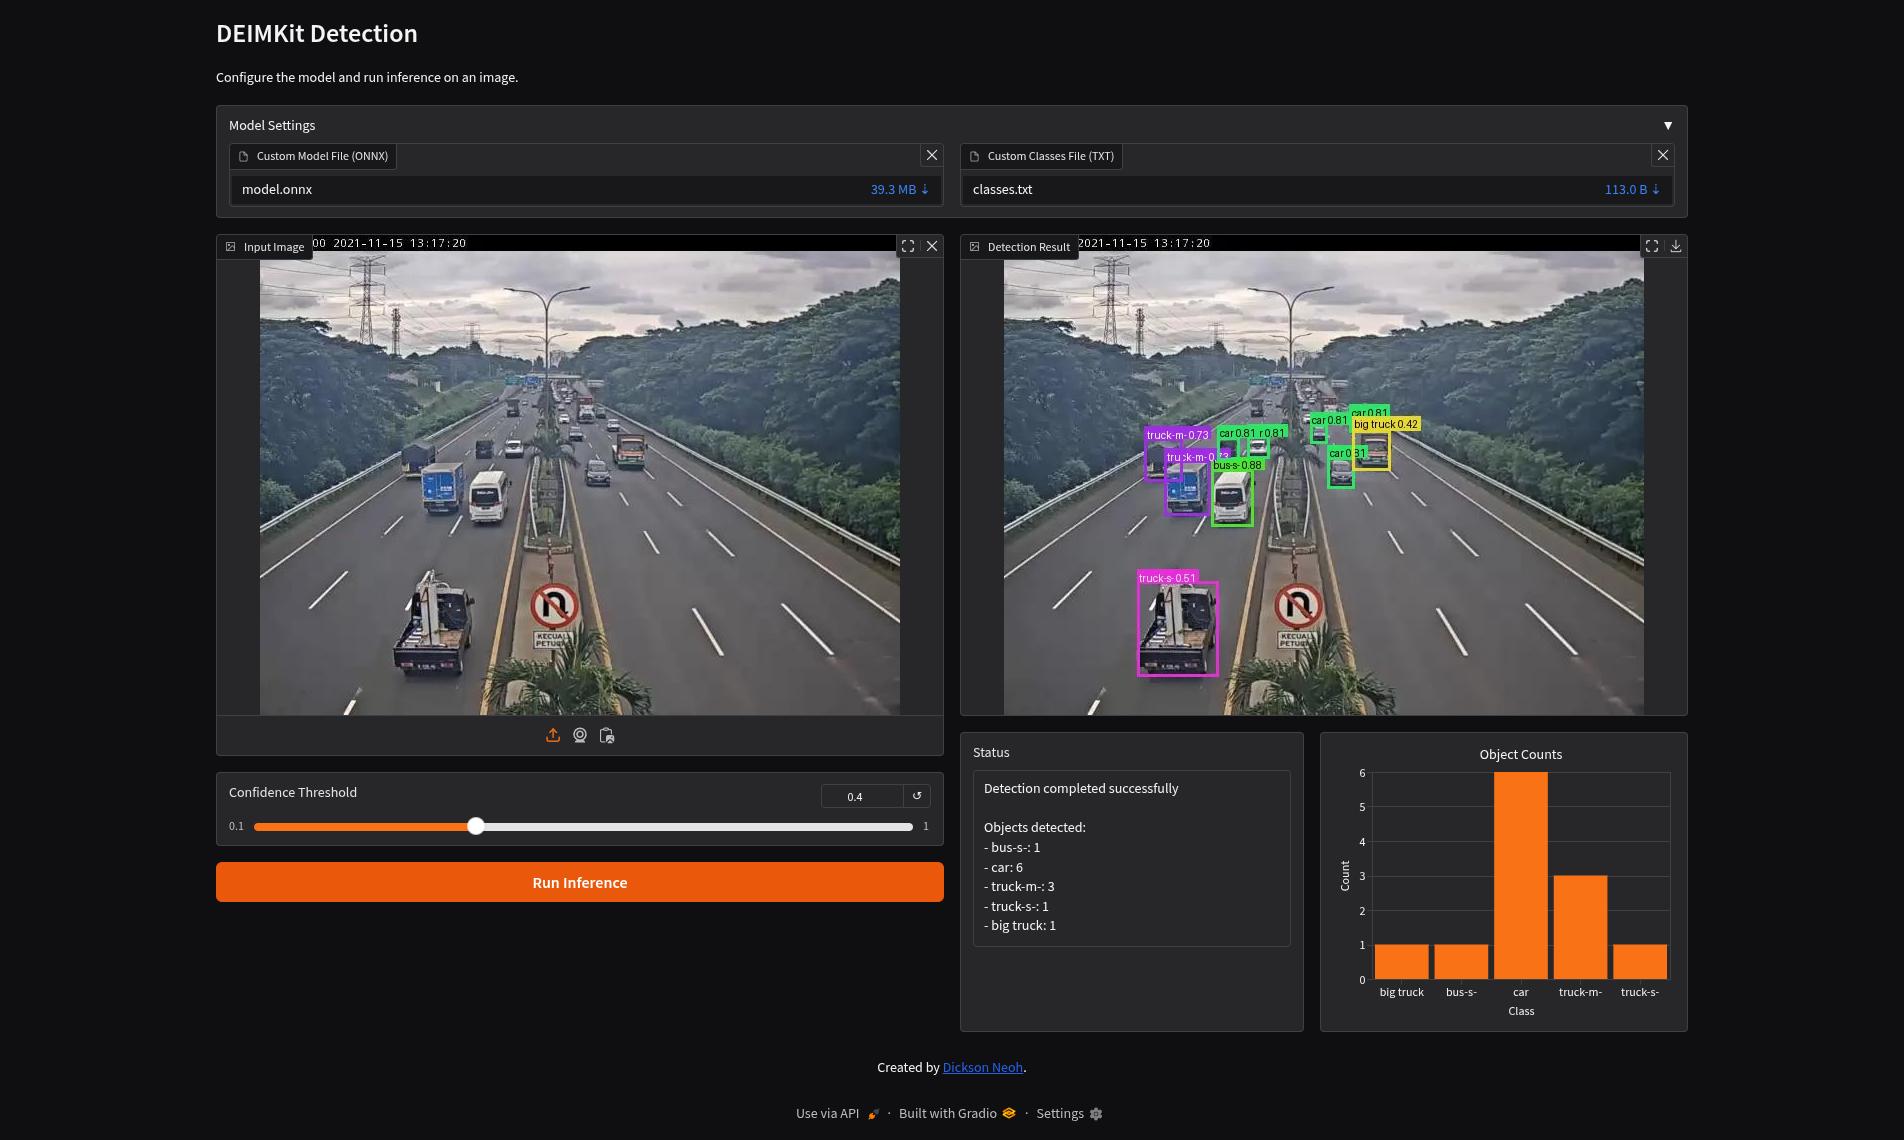
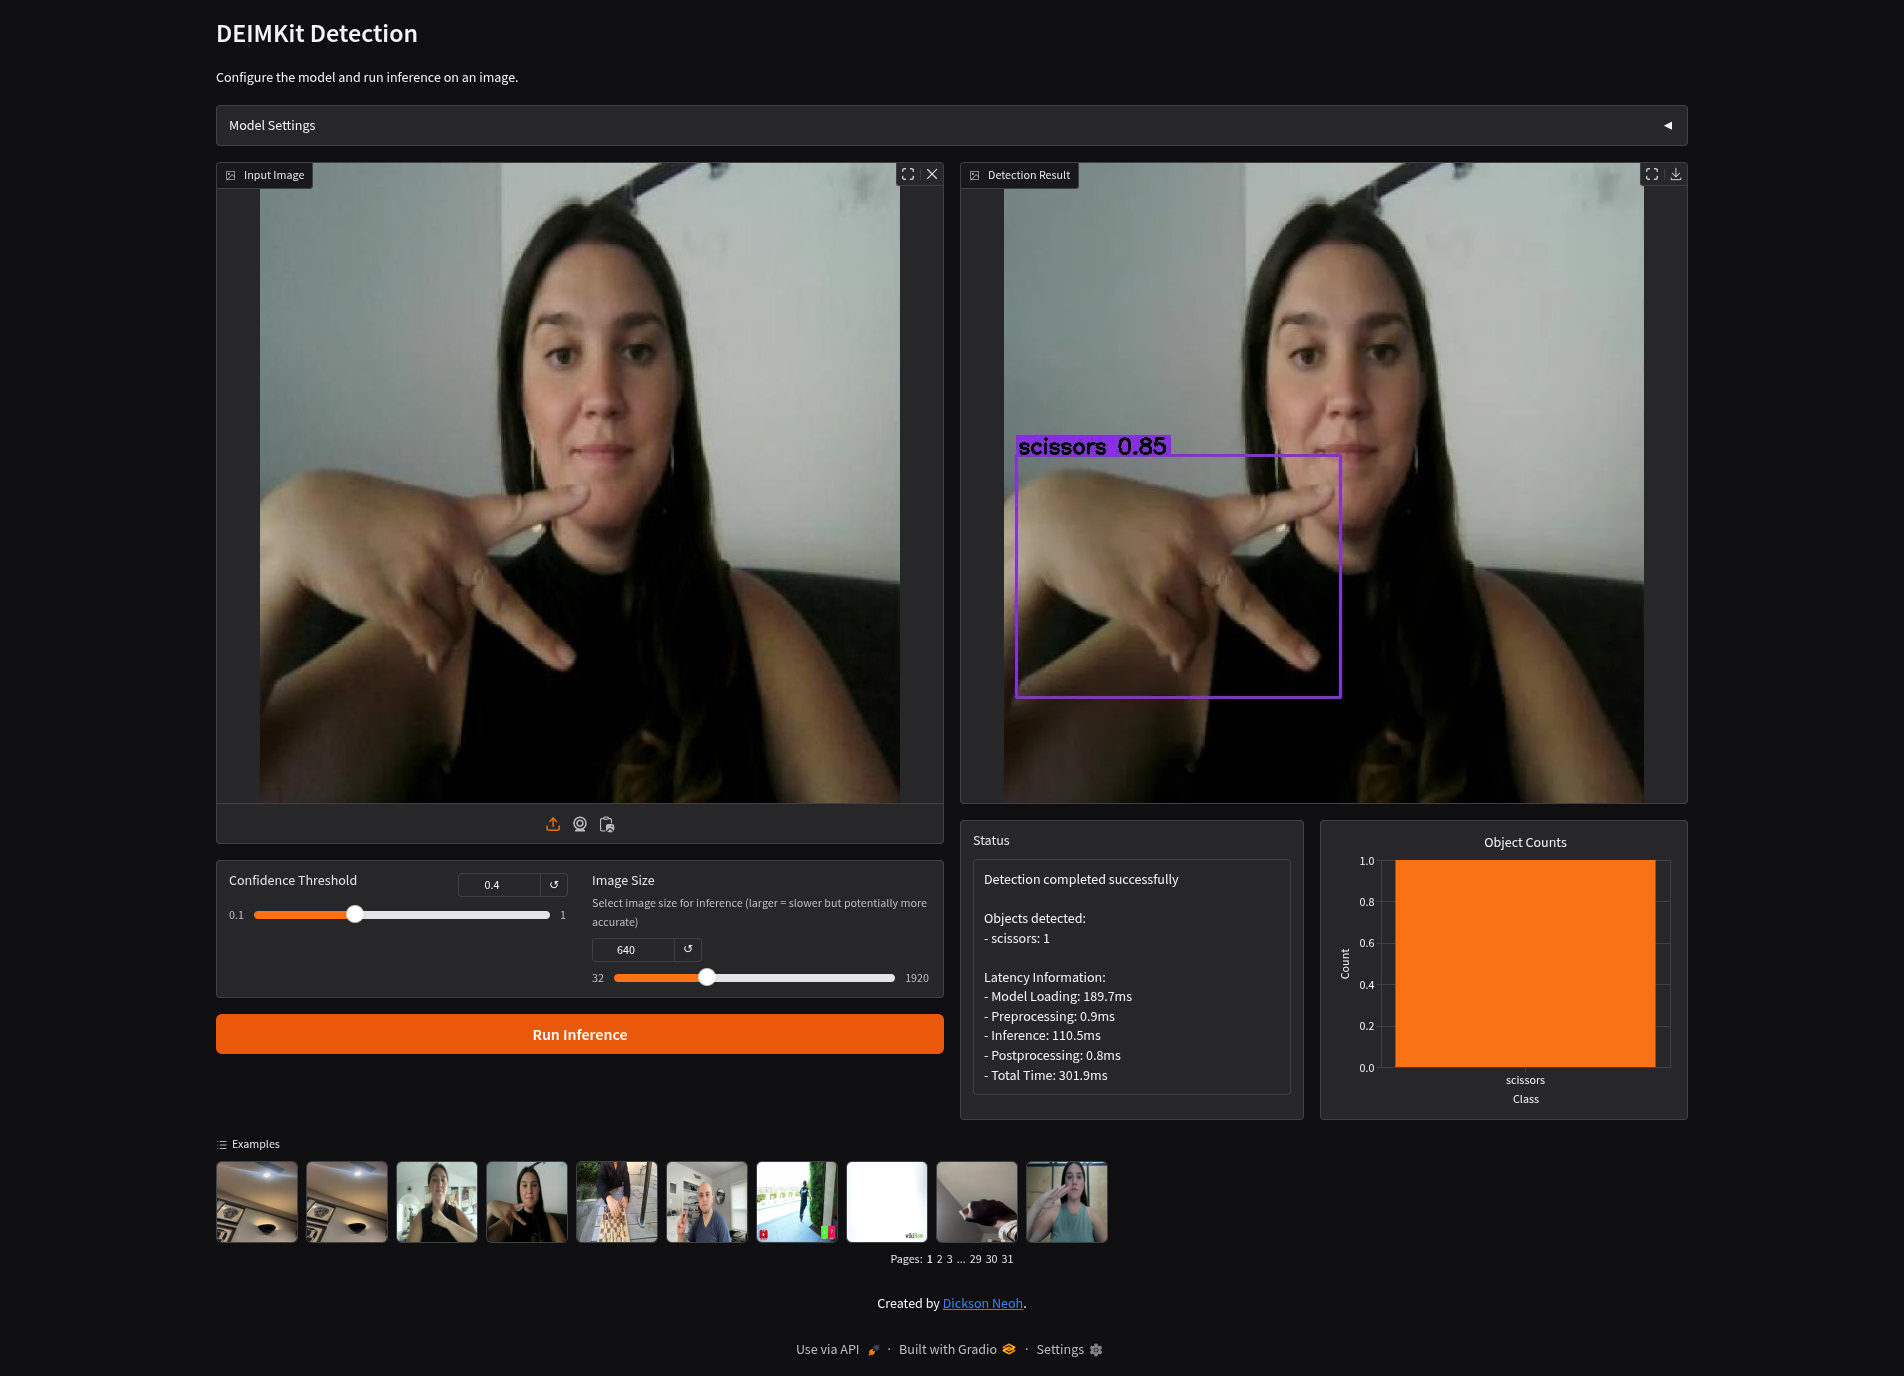
update readme

diff --git a/README.md b/README.md
@@ -345,7 +345,7 @@ pixi run -e cpu live-inference --onnx model.onnx --input video.mp4 --class-names
 
 Launch Gradio app
 ```bash
-pixi run -e cuda gradio-demo
+pixi run gradio-demo --model "best_prep.onnx" --classes "classes.txt" --examples "Rock Paper Scissors SXSW.v14i.coco/test"
 ```
 
 ```bash
